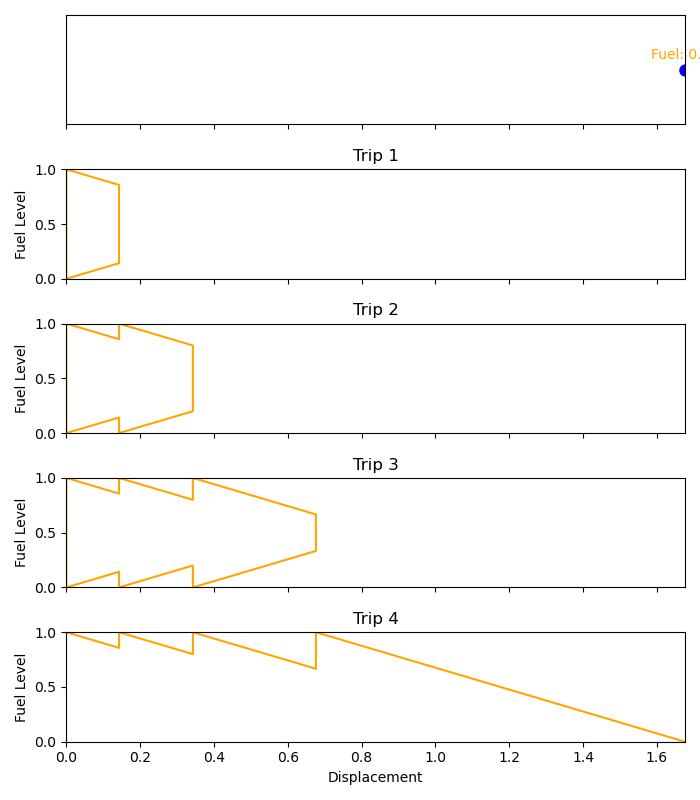
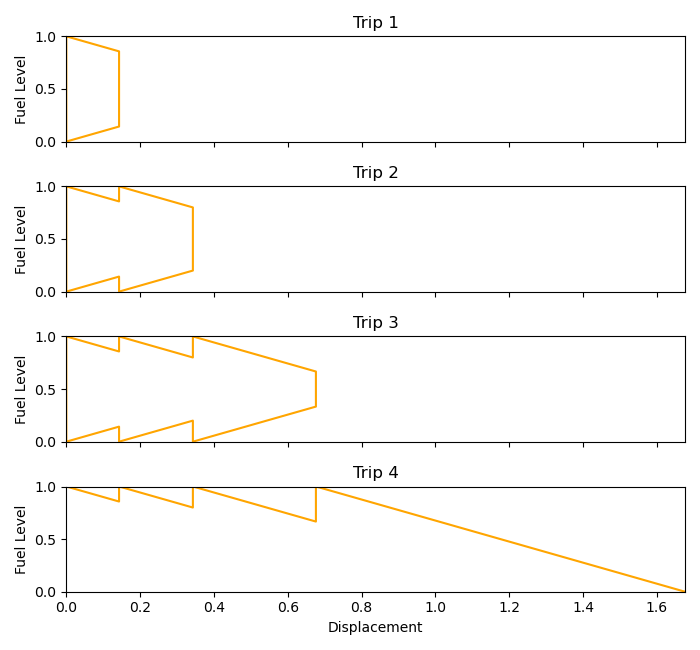
removed car from non-animations; minor improvements

diff --git a/jeep_solver.py b/jeep_solver.py
@@ -121,25 +121,31 @@ class JeepSolver:
         self.plot_visulization(np.array(xs), np.array(fuels), np.array(trips), fuel_changes, fps, paus_time, do_animation)
 
     def plot_visulization(self, xs, fuels, trips, fuel_changes, fps, paus_time, do_animation):
-        fig, axs = plt.subplots(len(trips) + 1, figsize=(7, 2 + 1.5 * len(trips)), sharex=True)
-        axs[0].set_xlim(0, np.max(xs))
-        height = 1.5
-        axs[0].set_ylim(0, height)
-        axs[0].set_yticks([])
+        use_car_add = 1 if do_animation else 0
 
-        point, = axs[0].plot([], [], "bo", markersize=8, label="Jeep")
-        text = axs[0].text(0, 0, "", ha="center", va="bottom", fontsize=10, color="orange")
-        text2 = axs[0].text(0, 0, "", ha="center", va="bottom", fontsize=10)
+        fig, axs = plt.subplots(len(trips) + use_car_add, figsize=(7, 0.5 + 1.5 * (len(trips) + use_car_add)), sharex=True)
+        if len(trips) + use_car_add == 1:
+            axs = [axs]  # Why does matplotlib do this?
+
+        if use_car_add:
+            axs[0].set_xlim(0, np.max(xs))
+            height = 1.5
+            axs[0].set_ylim(0, height)
+            axs[0].set_yticks([])
+
+            point, = axs[0].plot([], [], "bo", markersize=8, label="Jeep")
+            text = axs[0].text(0, 0, "", ha="center", va="bottom", fontsize=10, color="orange")
+            text2 = axs[0].text(0, 0, "", ha="center", va="bottom", fontsize=10)
 
         lines = []
         for i, trip in enumerate(trips):
-            line = axs[i + 1].plot([], [], color="orange")
+            line = axs[i + use_car_add].plot([], [], color="orange")
             lines.append(line[0])
 
-            axs[i + 1].set_xlim(0, np.max(xs))
-            axs[i + 1].set_ylim(0, 1)
-            axs[i + 1].set_title(f"Trip {i + 1}")
-            axs[i + 1].set_ylabel("Fuel Level")
+            axs[i + use_car_add].set_xlim(0, np.max(xs))
+            axs[i + use_car_add].set_ylim(0, 1)
+            axs[i + use_car_add].set_title(f"Trip {i + 1}")
+            axs[i + use_car_add].set_ylabel("Fuel Level")
 
         plt.xlabel("Displacement")
         plt.tight_layout()
@@ -155,10 +161,10 @@ class JeepSolver:
             start_index = int(all_trips[trip_index][0])
             lines[trip_index].set_data(xs[start_index:index + 1], fuels[start_index:index + 1])
 
-            if trip_index == 4:
-                pass
-
             # print("Animating frame", i, "index:", index)
+            if not use_car_add:
+                return
+
             x = xs[index]
             point.set_data([x], [height / 2])
             text.set_position((x, height / 2 + 0.1))
@@ -198,6 +204,8 @@ class JeepSolver:
 
         index_script += list(range(fuel_changes[-1][0] if len(fuel_changes) else 0, len(xs))) + [len(xs) - 1] * paus_frames
         # """
+
+        # Unecessary to create entire script if not do_animation but whatever
 
         if not do_animation:
             animate(len(index_script) - 1)
